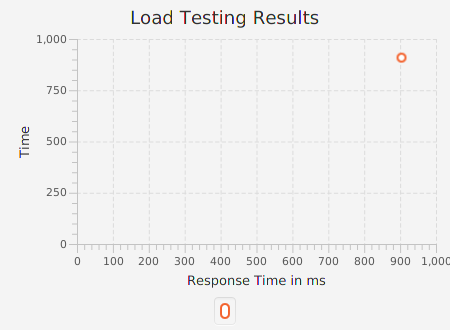
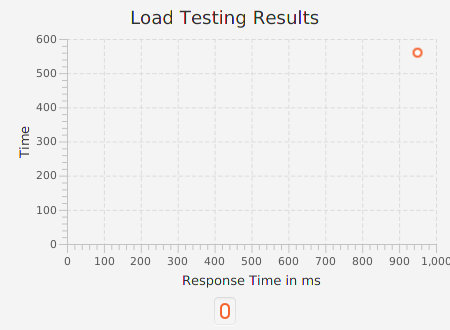
commit

diff --git a/API_TESTING/src/com/apitesting/LoginAPIHomefuud.java b/API_TESTING/src/com/apitesting/LoginAPIHomefuud.java
@@ -109,7 +109,7 @@ public class LoginAPIHomefuud extends Application{
 		XYChart.Series<Number, Number> data = new XYChart.Series<Number, Number>();
 		
 			
-		data.getData().add(new XYChart.Data<Number, Number>(LoginTest(), LoginTest()));
+		data.getData().add(new XYChart.Data<Number, Number>(LoginTest(), 560));
 		
 		lineChart.getData().add(data);
 		root.getChildren().add(lineChart);
@@ -119,7 +119,7 @@ public class LoginAPIHomefuud extends Application{
 		primStage.setScene(scene);
 		primStage.show();
 		
-		
+		System.out.println("time fetched:" +time);
 		//Saving Report 
 		lineChart.setAnimated(false);
 	
